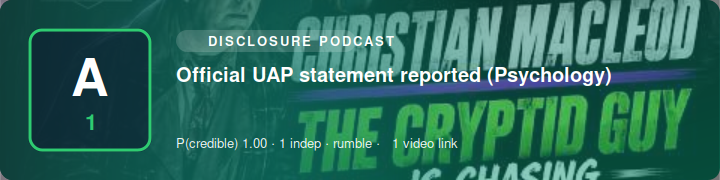
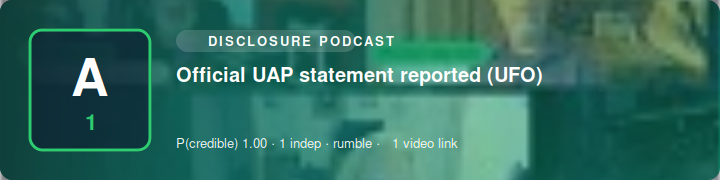
SITREP 2026-08-11 03:40 UTC

diff --git a/index.html b/index.html
@@ -1,1 +1,1 @@
-<!doctype html><meta charset=utf-8><title>Science Bob News — SITREP</title><style>body{font:16px/1.5 system-ui,sans-serif;max-width:760px;margin:2rem auto;padding:0 1rem;color:#111}h1{font-size:1.5rem}h2{margin-top:1.6rem;border-bottom:1px solid #ddd;padding-bottom:.2rem}ul{list-style:none;padding:0}li{margin:.9rem 0}.hl{font-weight:600}.meta{color:#555;font-size:.85rem}.src{font-size:.85rem}.vid{font-size:.85rem;margin-top:.15rem}.card{display:block;max-width:100%;height:auto;border-radius:8px;margin:.4rem 0 .5rem}.upd{background:#fde68a;padding:0 .3rem;border-radius:.2rem;font-size:.75rem}.sub{color:#777;font-size:.85rem}footer{color:#777;font-size:.8rem;margin-top:2rem;border-top:1px solid #ddd;padding-top:.6rem}</style><h1>🛸 Science Bob News</h1><div class="sub">UAP / UFO / USO SITREP · updated 2026-08-11 03:30 UTC · automated</div><h2>Corroborated</h2><ul><li><i>No corroborated reports.</i></li></ul><h2>Developing / unconfirmed</h2><ul><li><img class="card" src="https://n4hy.github.io/sciencebobnews-site/card_d_1.svg" alt="" width="720" height="180"><div class="hl">UAP report (Arizona)</div><div class="meta">reliability <b>A1</b> · P(credible)=1.0 · 2 independent source(s) · mastodon</div><div class="src"><a href="https://mysterioustimes.co.uk/2026/08/09/the-travis-walton-hoax/">@kdraven@mysterioustimes.co.uk</a> · <a href="https://c.im/@raurquiz/117066708910947794">@raurquiz@c.im</a></div><div class="vid">📹 <a href="https://youtu.be/Bbm9le8oM64?si=u3GVy-fDW4rZMqYw">video</a></div></li><li><img class="card" src="https://n4hy.github.io/sciencebobnews-site/card_d_2.svg" alt="" width="720" height="180"><div class="hl">UAP report</div><div class="meta">reliability <b>A1</b> · P(credible)=1.0 · 1 independent source(s) · mastodon</div><div class="src"><a href="https://friendica.helvetet.eu/display/a7e70941-ada94dce-7a7a6cb70eceee45">@nyteknik@friendica.helvetet.eu</a></div></li><li><img class="card" src="https://n4hy.github.io/sciencebobnews-site/card_d_3.svg" alt="" width="720" height="180"><div class="hl">UAP report (McMinnville)</div><div class="meta">reliability <b>A1</b> · P(credible)=1.0 · 1 independent source(s) · rumble</div><div class="src"><a href="https://www.youtube.com/watch?v=7OT6uJ0yzVY">@podcast</a></div><div class="vid">📹 <a href="https://www.youtube.com/watch?v=7OT6uJ0yzVY">video</a></div></li><li><img class="card" src="https://n4hy.github.io/sciencebobnews-site/card_d_4.svg" alt="" width="720" height="180"><div class="hl">Official UAP statement reported (International)</div><div class="meta">reliability <b>A1</b> · P(credible)=1.0 · 1 independent source(s) · rumble</div><div class="src"><a href="https://www.youtube.com/watch?v=DD4iB7rkmew">@podcast</a></div><div class="vid">📹 <a href="https://www.youtube.com/watch?v=DD4iB7rkmew">video</a></div></li><li><img class="card" src="https://n4hy.github.io/sciencebobnews-site/card_d_5.svg" alt="" width="720" height="180"><div class="hl">Official UAP statement reported (Psychology)</div><div class="meta">reliability <b>A1</b> · P(credible)=1.0 · 1 independent source(s) · rumble</div><div class="src"><a href="https://www.youtube.com/watch?v=mne_PUxB5T8">@podcast</a></div><div class="vid">📹 <a href="https://www.youtube.com/watch?v=mne_PUxB5T8">video</a></div></li></ul><footer><b>Powered by Science Bob News.</b> Free to use with credit (see LICENSE). Headlines are factual restatements in the engine's own words; click sources for originals. Single-origin reposts collapse to one source; prosaic candidates flagged where offered.</footer>
+<!doctype html><meta charset=utf-8><title>Science Bob News — SITREP</title><style>body{font:16px/1.5 system-ui,sans-serif;max-width:760px;margin:2rem auto;padding:0 1rem;color:#111}h1{font-size:1.5rem}h2{margin-top:1.6rem;border-bottom:1px solid #ddd;padding-bottom:.2rem}ul{list-style:none;padding:0}li{margin:.9rem 0}.hl{font-weight:600}.meta{color:#555;font-size:.85rem}.src{font-size:.85rem}.vid{font-size:.85rem;margin-top:.15rem}.card{display:block;max-width:100%;height:auto;border-radius:8px;margin:.4rem 0 .5rem}.upd{background:#fde68a;padding:0 .3rem;border-radius:.2rem;font-size:.75rem}.sub{color:#777;font-size:.85rem}footer{color:#777;font-size:.8rem;margin-top:2rem;border-top:1px solid #ddd;padding-top:.6rem}</style><h1>🛸 Science Bob News</h1><div class="sub">UAP / UFO / USO SITREP · updated 2026-08-11 03:40 UTC · automated</div><h2>Corroborated</h2><ul><li><i>No corroborated reports.</i></li></ul><h2>Developing / unconfirmed</h2><ul><li><img class="card" src="https://n4hy.github.io/sciencebobnews-site/card_d_1.svg" alt="" width="720" height="180"><div class="hl">UAP report (Arizona)</div><div class="meta">reliability <b>A1</b> · P(credible)=1.0 · 2 independent source(s) · mastodon</div><div class="src"><a href="https://mysterioustimes.co.uk/2026/08/09/the-travis-walton-hoax/">@kdraven@mysterioustimes.co.uk</a> · <a href="https://c.im/@raurquiz/117066708910947794">@raurquiz@c.im</a></div><div class="vid">📹 <a href="https://youtu.be/Bbm9le8oM64?si=u3GVy-fDW4rZMqYw">video</a></div></li><li><img class="card" src="https://n4hy.github.io/sciencebobnews-site/card_d_2.svg" alt="" width="720" height="180"><div class="hl">UAP report</div><div class="meta">reliability <b>A1</b> · P(credible)=1.0 · 1 independent source(s) · mastodon</div><div class="src"><a href="https://friendica.helvetet.eu/display/a7e70941-ada94dce-7a7a6cb70eceee45">@nyteknik@friendica.helvetet.eu</a></div></li><li><img class="card" src="https://n4hy.github.io/sciencebobnews-site/card_d_3.svg" alt="" width="720" height="180"><div class="hl">Official UAP statement reported (International)</div><div class="meta">reliability <b>A1</b> · P(credible)=1.0 · 1 independent source(s) · rumble</div><div class="src"><a href="https://www.youtube.com/watch?v=DD4iB7rkmew">@podcast</a></div><div class="vid">📹 <a href="https://www.youtube.com/watch?v=DD4iB7rkmew">video</a></div></li><li><img class="card" src="https://n4hy.github.io/sciencebobnews-site/card_d_4.svg" alt="" width="720" height="180"><div class="hl">Official UAP statement reported (Psychology)</div><div class="meta">reliability <b>A1</b> · P(credible)=1.0 · 1 independent source(s) · rumble</div><div class="src"><a href="https://www.youtube.com/watch?v=mne_PUxB5T8">@podcast</a></div><div class="vid">📹 <a href="https://www.youtube.com/watch?v=mne_PUxB5T8">video</a></div></li><li><img class="card" src="https://n4hy.github.io/sciencebobnews-site/card_d_5.svg" alt="" width="720" height="180"><div class="hl">Official UAP statement reported (UFO)</div><div class="meta">reliability <b>A1</b> · P(credible)=1.0 · 1 independent source(s) · rumble</div><div class="src"><a href="https://www.youtube.com/watch?v=vWtSrAiCJ78">@podcast</a></div><div class="vid">📹 <a href="https://www.youtube.com/watch?v=vWtSrAiCJ78">video</a></div></li></ul><footer><b>Powered by Science Bob News.</b> Free to use with credit (see LICENSE). Headlines are factual restatements in the engine's own words; click sources for originals. Single-origin reposts collapse to one source; prosaic candidates flagged where offered.</footer>

diff --git a/sitrep.md b/sitrep.md
@@ -1,5 +1,5 @@
 # 🛸 Science Bob News — UAP / UFO / USO SITREP
-*Updated 2026-08-11 03:30 UTC · auto-generated · sources credited & linked · reliability ratings are automated, not editorial*
+*Updated 2026-08-11 03:40 UTC · auto-generated · sources credited & linked · reliability ratings are automated, not editorial*
 
 ## Corroborated
 _No corroborated reports this cycle._
@@ -15,20 +15,20 @@ _No corroborated reports this cycle._
 2. UAP report — reliability A1 · 1 source(s)  
    [@nyteknik@friendica.helvetet.eu](https://friendica.helvetet.eu/display/a7e70941-ada94dce-7a7a6cb70eceee45)
 
-![UAP report (McMinnville)](https://n4hy.github.io/sciencebobnews-site/card_d_3.svg)
-3. UAP report (McMinnville) — reliability A1 · 1 source(s)  
-   [@podcast](https://www.youtube.com/watch?v=7OT6uJ0yzVY)  
-   📹 [video](https://www.youtube.com/watch?v=7OT6uJ0yzVY)
-
-![Official UAP statement reported (International)](https://n4hy.github.io/sciencebobnews-site/card_d_4.svg)
-4. Official UAP statement reported (International) — reliability A1 · 1 source(s)  
+![Official UAP statement reported (International)](https://n4hy.github.io/sciencebobnews-site/card_d_3.svg)
+3. Official UAP statement reported (International) — reliability A1 · 1 source(s)  
    [@podcast](https://www.youtube.com/watch?v=DD4iB7rkmew)  
    📹 [video](https://www.youtube.com/watch?v=DD4iB7rkmew)
 
-![Official UAP statement reported (Psychology)](https://n4hy.github.io/sciencebobnews-site/card_d_5.svg)
-5. Official UAP statement reported (Psychology) — reliability A1 · 1 source(s)  
+![Official UAP statement reported (Psychology)](https://n4hy.github.io/sciencebobnews-site/card_d_4.svg)
+4. Official UAP statement reported (Psychology) — reliability A1 · 1 source(s)  
    [@podcast](https://www.youtube.com/watch?v=mne_PUxB5T8)  
    📹 [video](https://www.youtube.com/watch?v=mne_PUxB5T8)
+
+![Official UAP statement reported (UFO)](https://n4hy.github.io/sciencebobnews-site/card_d_5.svg)
+5. Official UAP statement reported (UFO) — reliability A1 · 1 source(s)  
+   [@podcast](https://www.youtube.com/watch?v=vWtSrAiCJ78)  
+   📹 [video](https://www.youtube.com/watch?v=vWtSrAiCJ78)
 
 ---
 *Powered by Science Bob News. Free to use with credit (see LICENSE). Headlines are factual restatements in the engine's own words — click through to the linked sources for originals. Reposts of a single origin are collapsed to one source; candidate prosaic explanations are flagged where offered.*
